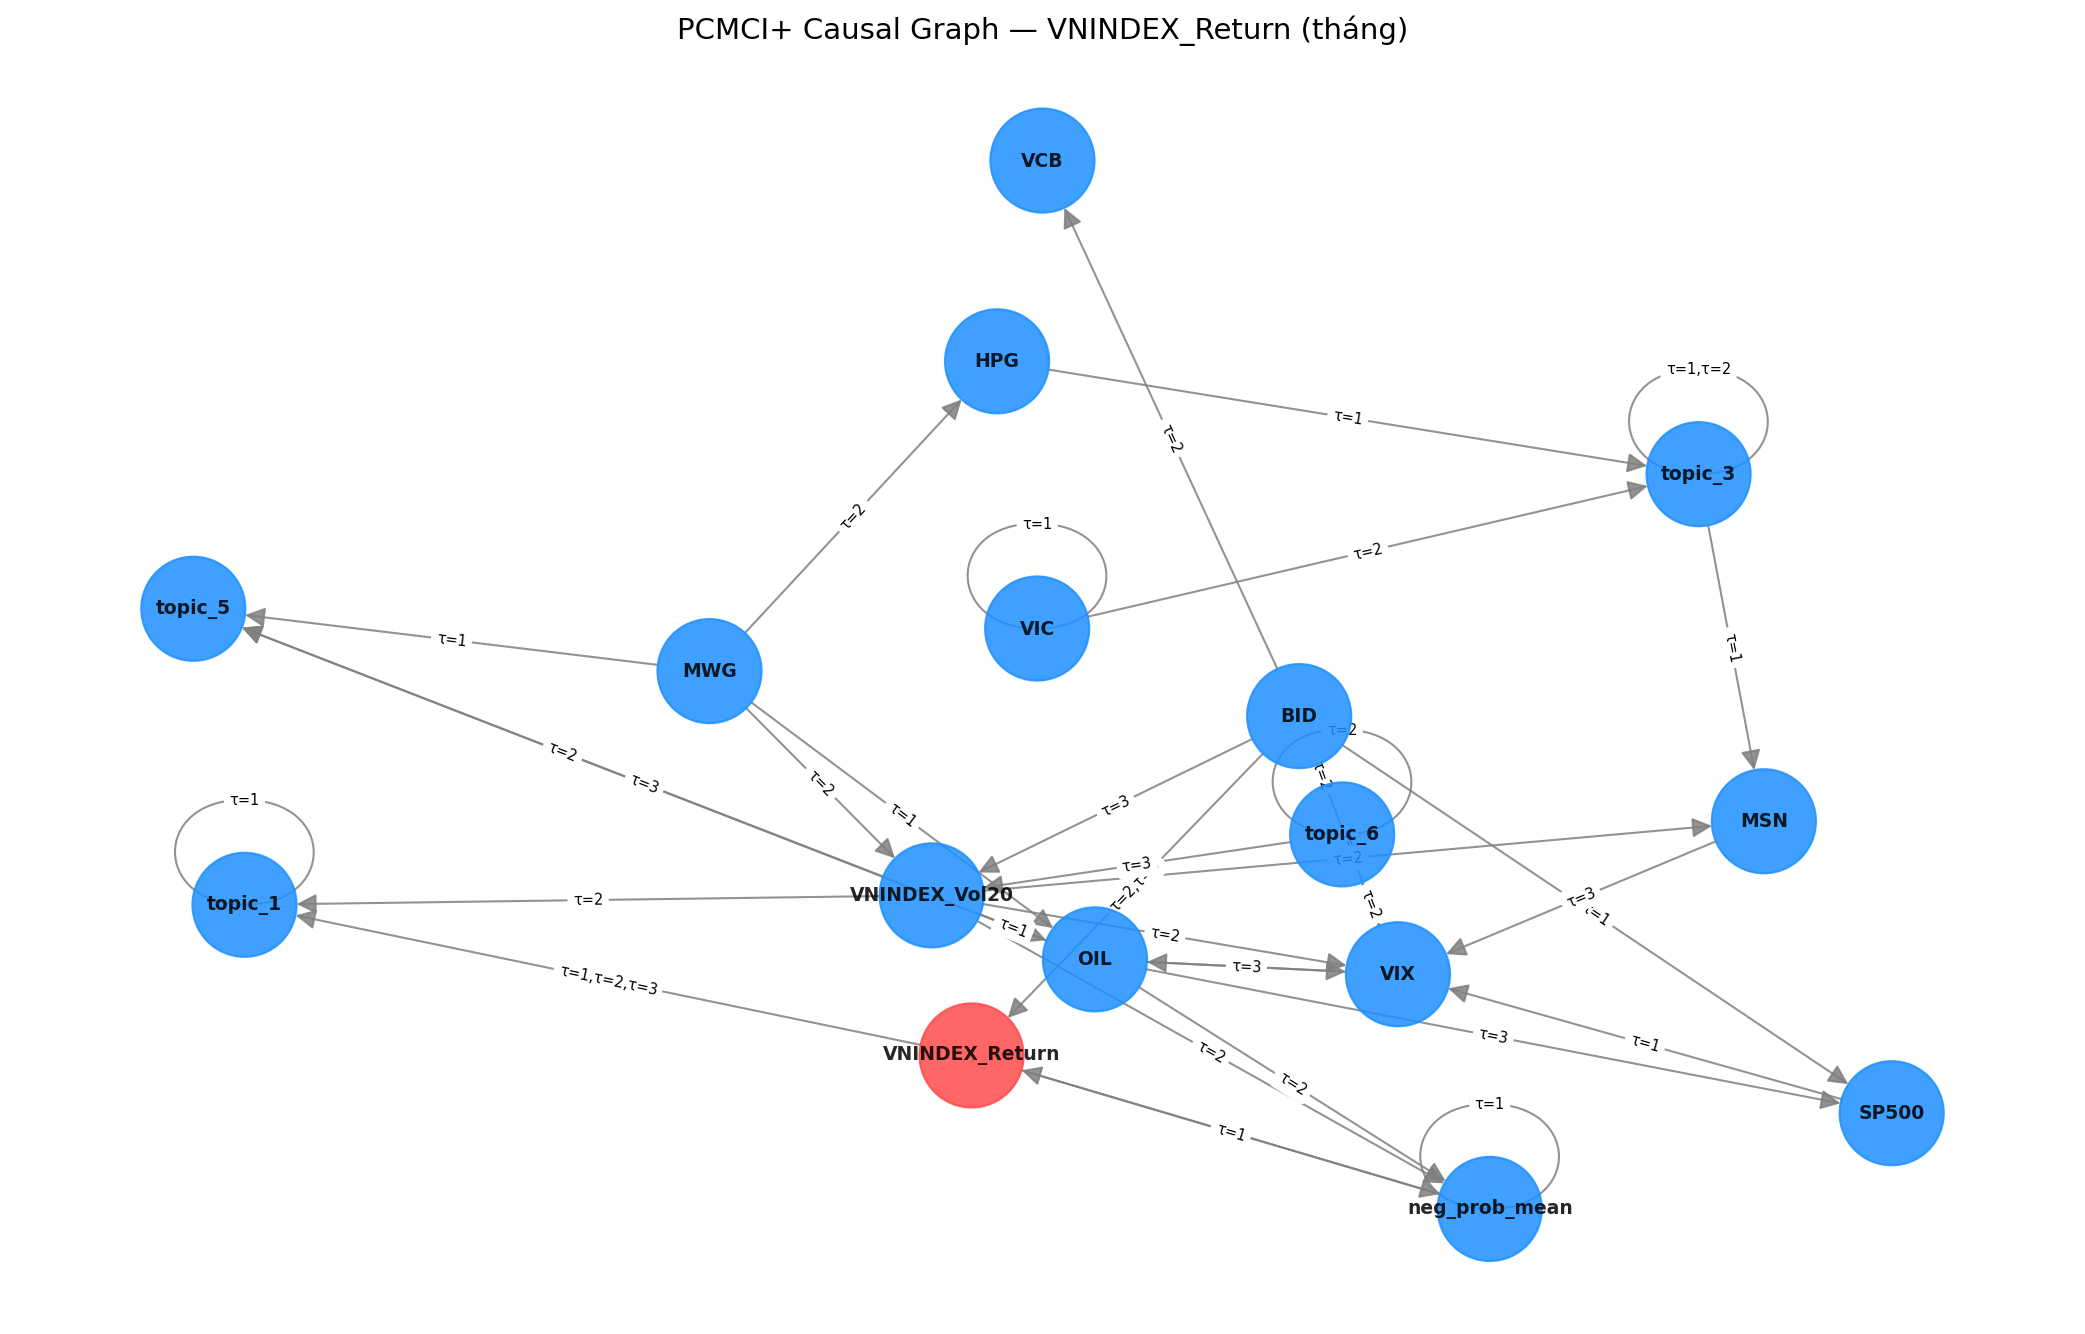
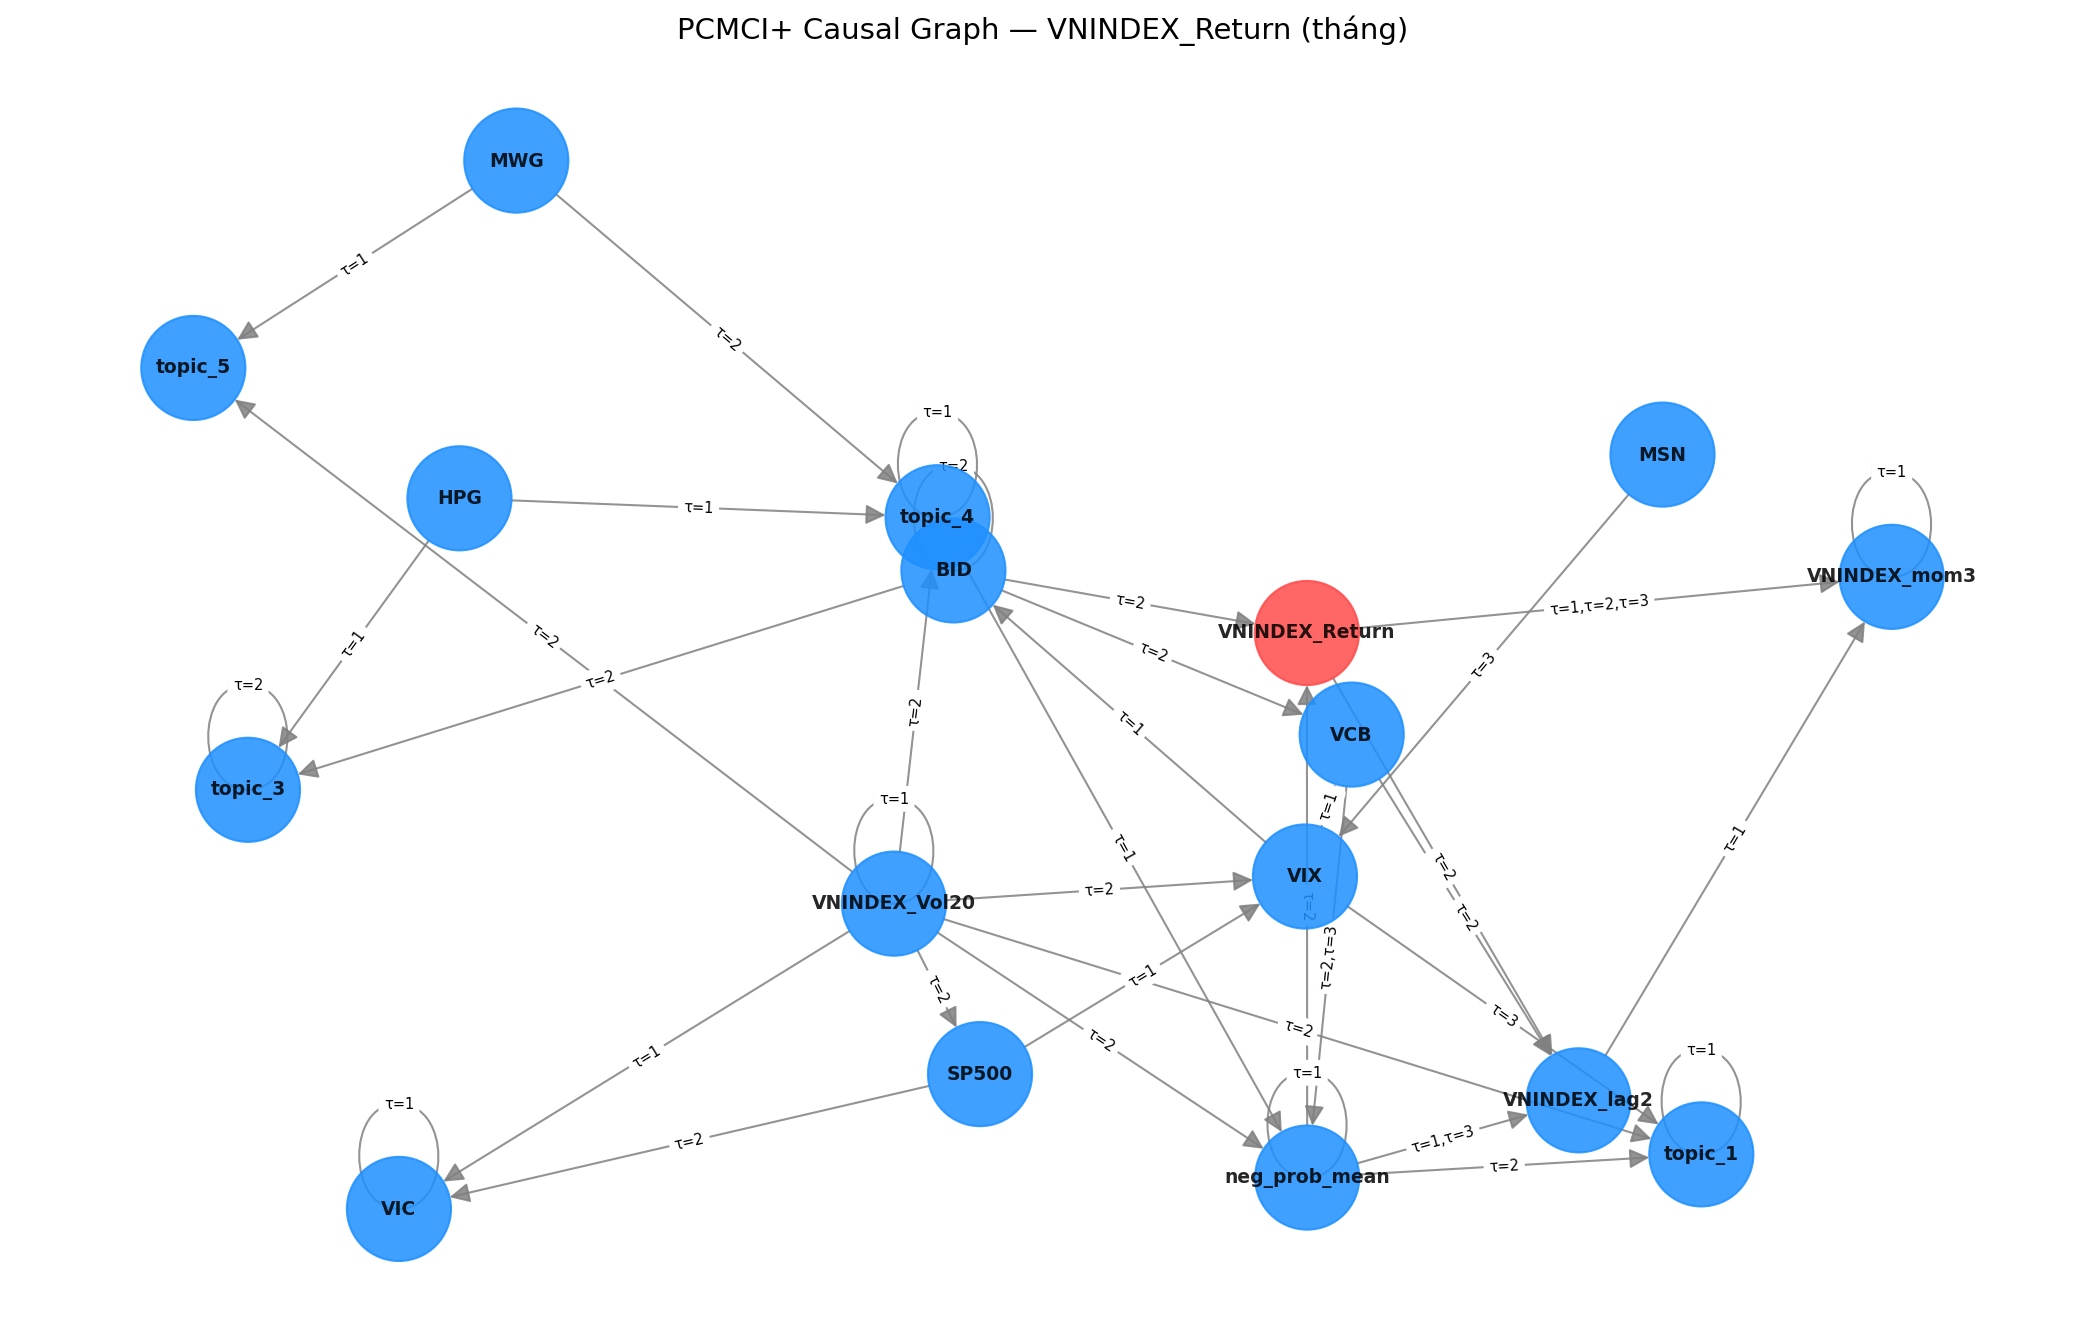
feat: add Causal XGBoost model and next-month prediction interface to CausalForecaster

diff --git a/causal_forecaster.py b/causal_forecaster.py
@@ -647,6 +647,123 @@ class CausalForecaster:
         return float(pred)
 
     # ------------------------------------------------------------------
+    # Predict Next Month — kết hợp Causal Ridge + Causal Logistic
+    # ------------------------------------------------------------------
+
+    def predict_next_month(self, df: pd.DataFrame,
+                           window_size: int = 60,
+                           current_price: float = None) -> dict:
+        """
+        Dự báo tháng tiếp theo bằng cách kết hợp:
+          - Causal Ridge   → ước tính độ lớn log return
+          - Causal Logistic → xác nhận chiều tăng/giảm (60% DA)
+
+        Parameters
+        ----------
+        df           : DataFrame đã clean (stationary, no NaN)
+        window_size  : số tháng gần nhất để train
+        current_price: giá VN-Index hiện tại (để tính giá dự báo)
+
+        Returns dict gồm:
+          direction      : 'TĂNG' / 'GIẢM'
+          confidence     : xác suất chiều dự báo (0-1)
+          pred_return    : log return dự báo từ Ridge
+          pred_price     : giá dự báo (nếu có current_price)
+          signal         : 'MUA' / 'BÁN' / 'CHỜ'
+          features_used  : danh sách features causal
+        """
+        from sklearn.linear_model import LogisticRegressionCV, Ridge
+        from sklearn.model_selection import TimeSeriesSplit
+
+        feature_cols = [c for c in self.selected_features if c in df.columns]
+        if not feature_cols:
+            feature_cols = [c for c in df.columns if c != self.target_col]
+
+        # Shift-1: dùng giá trị tháng hiện tại để dự báo tháng tới
+        df_lag = df[feature_cols].shift(1).copy()
+        df_lag[self.target_col] = df[self.target_col]
+        df_lag = df_lag.dropna()
+
+        n = len(df_lag)
+        ws = min(window_size, n - 1)
+
+        X_train = df_lag[feature_cols].values[-ws:]
+        y_train = df_lag[self.target_col].values[-ws:]
+        y_dir   = (y_train > 0).astype(int)
+
+        # X_next = giá trị features tháng MỚI NHẤT (chưa shift)
+        X_next = df[feature_cols].values[-1:].copy()
+
+        scaler = StandardScaler()
+        X_train_s = scaler.fit_transform(X_train)
+        X_next_s  = scaler.transform(X_next)
+
+        # --- Causal Ridge: dự báo return ---
+        ridge = Ridge(alpha=1.0)
+        ridge.fit(X_train_s, y_train)
+        pred_return = float(ridge.predict(X_next_s)[0])
+
+        # --- Causal Logistic: dự báo chiều + confidence ---
+        direction, confidence = 'TĂNG', 0.5
+        if len(np.unique(y_dir)) >= 2:
+            tscv = TimeSeriesSplit(n_splits=3)
+            clf = LogisticRegressionCV(
+                Cs=np.logspace(-3, 2, 10),
+                cv=tscv, scoring='accuracy',
+                penalty='l2', solver='lbfgs',
+                max_iter=500, random_state=42,
+            )
+            clf.fit(X_train_s, y_dir)
+            proba     = clf.predict_proba(X_next_s)[0]   # [P(giảm), P(tăng)]
+            pred_dir  = clf.predict(X_next_s)[0]
+            direction = 'TĂNG' if pred_dir == 1 else 'GIẢM'
+            confidence = float(proba[pred_dir])
+
+        # Nếu Ridge và Logistic mâu thuẫn → hạ confidence, signal CHỜ
+        ridge_dir   = 'TĂNG' if pred_return > 0 else 'GIẢM'
+        consistent  = (ridge_dir == direction)
+
+        if not consistent:
+            signal = 'CHỜ'
+        elif confidence >= 0.60:
+            signal = 'MUA' if direction == 'TĂNG' else 'BÁN'
+        else:
+            signal = 'CHỜ'
+
+        # Giá dự báo
+        pred_price = None
+        if current_price and current_price > 0:
+            pred_price = round(current_price * np.exp(pred_return), 2)
+
+        result = {
+            'direction':    direction,
+            'confidence':   round(confidence, 4),
+            'pred_return':  round(pred_return * 100, 2),   # % thay vì log
+            'pred_price':   pred_price,
+            'signal':       signal,
+            'ridge_dir':    ridge_dir,
+            'consistent':   consistent,
+            'features_used': feature_cols,
+        }
+
+        # In đẹp
+        print(f"\n{'='*55}")
+        print(f"  DỰ BÁO THÁNG TIẾP THEO — VN-Index")
+        print(f"{'='*55}")
+        print(f"  Chiều dự báo  : {direction}  (confidence: {confidence:.1%})")
+        print(f"  Return dự báo : {pred_return*100:+.2f}%")
+        if pred_price:
+            print(f"  Giá hiện tại  : {current_price:,.0f}")
+            print(f"  Giá dự báo    : {pred_price:,.0f}")
+        print(f"  Đồng thuận    : Ridge={'TĂNG' if pred_return>0 else 'GIẢM'} | "
+              f"Logistic={direction} → {'✓ Nhất quán' if consistent else '✗ Mâu thuẫn'}")
+        print(f"  Khuyến nghị   : {'🟢 '+signal if signal=='MUA' else '🔴 '+signal if signal=='BÁN' else '🟡 '+signal}")
+        print(f"  Features dùng : {feature_cols}")
+        print(f"{'='*55}")
+
+        return result
+
+    # ------------------------------------------------------------------
     # Evaluation & Comparison
     # ------------------------------------------------------------------
 
@@ -712,6 +829,45 @@ class CausalForecaster:
 
         return np.array(actuals), np.array(predictions)
 
+    def _rolling_forecast_xgb(self, df, feature_cols, window_size=60):
+        """Rolling window XGBoost — bắt quan hệ phi tuyến (Nhóm 1)."""
+        try:
+            from xgboost import XGBRegressor
+        except ImportError:
+            print("  [WARNING] xgboost chưa cài. Bỏ qua XGBoost.")
+            return None, None
+
+        df_lag = df[feature_cols].shift(1).copy()
+        df_lag[self.target_col] = df[self.target_col]
+        df_lag = df_lag.dropna()
+
+        y = df_lag[self.target_col].values
+        X = df_lag[feature_cols].values
+
+        predictions, actuals = [], []
+        for i in range(window_size, len(df_lag)):
+            X_train, y_train = X[i - window_size:i], y[i - window_size:i]
+            X_test = X[i:i + 1]
+
+            scaler = StandardScaler()
+            X_train_s = scaler.fit_transform(X_train)
+            X_test_s  = scaler.transform(X_test)
+
+            model = XGBRegressor(
+                n_estimators=100,
+                max_depth=3,          # shallow — tránh overfit trên data nhỏ
+                learning_rate=0.05,
+                subsample=0.8,
+                colsample_bytree=0.8,
+                random_state=42,
+                verbosity=0,
+            )
+            model.fit(X_train_s, y_train)
+            predictions.append(model.predict(X_test_s)[0])
+            actuals.append(y[i])
+
+        return np.array(actuals), np.array(predictions)
+
     def compare_models(self, df, window_size=60, freq: str = "monthly",
                        use_lstm: bool = False, lstm_epochs: int = 20):
         """
@@ -720,21 +876,28 @@ class CausalForecaster:
           2. LASSO Ridge
           3. Causal Ridge (PCMCI+)
           4. Causal Logistic (PCMCI+ features) — tối ưu trực tiếp DA
+          5. Causal XGBoost — phi tuyến, bắt momentum
           5. Causal LSTM (PCMCI+ features, nếu use_lstm=True)
         """
         all_cols = [c for c in df.columns if c != self.target_col]
 
-        print("\n[1/4] All-features Ridge")
+        print("\n[1/5] All-features Ridge")
         act, pred_all = self._rolling_forecast(df, all_cols, window_size)
         r_all = self.evaluate(act, pred_all, 'All-features Ridge')
 
-        print("\n[2/4] LASSO Ridge")
+        print("\n[2/5] All-features XGBoost (phi tuyến, tất cả features)")
+        r_all_xgb = None
+        act_axgb, pred_axgb = self._rolling_forecast_xgb(df, all_cols, window_size)
+        if act_axgb is not None:
+            r_all_xgb = self.evaluate(act_axgb, pred_axgb, 'All-features XGBoost')
+
+        print("\n[3/6] LASSO Ridge")
         df_lasso  = self.reduce_dimensions(df, method='lasso')
         lasso_cols = [c for c in df_lasso.columns if c != self.target_col]
         _, pred_lasso = self._rolling_forecast(df, lasso_cols, window_size)
         r_lasso = self.evaluate(act, pred_lasso, 'LASSO Ridge')
 
-        print("\n[3/4] Causal Ridge (PCMCI+)")
+        print("\n[4/6] Causal Ridge (PCMCI+)")
         r_causal = None
         if self.selected_features:
             _, pred_causal = self._rolling_forecast(df, self.selected_features, window_size)
@@ -742,12 +905,20 @@ class CausalForecaster:
         else:
             print("  Không tìm được causal features.")
 
-        print("\n[4/4] Causal Logistic (PCMCI+ — tối ưu DA trực tiếp)")
+        print("\n[5/6] Causal Logistic (PCMCI+ — tối ưu DA trực tiếp)")
         r_clf = None
         clf_cols = self.selected_features if self.selected_features else lasso_cols
         if clf_cols:
             _, pred_clf = self._rolling_forecast_clf(df, clf_cols, window_size)
             r_clf = self.evaluate(act, pred_clf, 'Causal Logistic')
+
+        print("\n[6/6] Causal XGBoost (phi tuyến + momentum)")
+        r_xgb = None
+        xgb_cols = self.selected_features if self.selected_features else lasso_cols
+        if xgb_cols:
+            act_xgb, pred_xgb = self._rolling_forecast_xgb(df, xgb_cols, window_size)
+            if act_xgb is not None:
+                r_xgb = self.evaluate(act_xgb, pred_xgb, 'Causal XGBoost')
 
         r_lstm = None
         if use_lstm and TORCH_AVAILABLE and self.selected_features:
@@ -762,7 +933,7 @@ class CausalForecaster:
             if act_lstm is not None:
                 r_lstm = self.evaluate(act_lstm, pred_lstm, 'Causal LSTM (PCMCI+)')
 
-        results = {'all': r_all, 'lasso': r_lasso, 'causal': r_causal, 'clf': r_clf, 'lstm': r_lstm}
+        results = {'all': r_all, 'all_xgb': r_all_xgb, 'lasso': r_lasso, 'causal': r_causal, 'clf': r_clf, 'xgb': r_xgb, 'lstm': r_lstm}
         self._plot_comparison(results, act, freq=freq)
         return results
 

diff --git a/main.py b/main.py
@@ -8,8 +8,41 @@ Cách chạy:
 """
 
 import sys
+import numpy as np
+import pandas as pd
 from causal_forecaster import CausalForecaster
 from data_loader import load_dataset
+
+
+def add_technical_features(df: pd.DataFrame) -> pd.DataFrame:
+    """
+    Nhóm 1 — thêm autoregression + technical indicators từ data giá có sẵn.
+    Tất cả tính với lag để tránh look-ahead bias.
+    """
+    df = df.copy()
+    ret = df["VNINDEX_Return"]
+
+    # 1. Autoregression lag 1-3 (momentum ngắn hạn)
+    df["VNINDEX_lag1"] = ret.shift(1)
+    df["VNINDEX_lag2"] = ret.shift(2)
+    df["VNINDEX_lag3"] = ret.shift(3)
+
+    # 2. Momentum 3 tháng (tổng return 3 tháng trước)
+    df["VNINDEX_mom3"] = ret.shift(1).rolling(3).sum()
+
+    # 3. Volatility 3 tháng (độ biến động gần đây)
+    df["VNINDEX_vol3"] = ret.shift(1).rolling(3).std()
+
+    # 4. RSI-style momentum: tỷ lệ tháng tăng / tổng tháng (6 tháng)
+    up   = ret.shift(1).rolling(6).apply(lambda x: (x > 0).sum())
+    df["VNINDEX_rsi6"] = up / 6.0
+
+    # 5. Trend signal: MA3 so với MA6 (cross signal)
+    ma3 = ret.shift(1).rolling(3).mean()
+    ma6 = ret.shift(1).rolling(6).mean()
+    df["VNINDEX_trend"] = (ma3 - ma6)
+
+    return df
 
 
 # ------------------------------------------------------------------
@@ -56,6 +89,13 @@ def main(freq: str = "monthly", use_cache: bool = True):
     if non_stat:
         print(f"  → Diff các cột non-stationary: {non_stat}")
         df_clean[non_stat] = df_clean[non_stat].diff()
+
+    # 2b+. Thêm autoregression + technical indicators (Nhóm 1)
+    df_clean = add_technical_features(df_clean)
+    new_cols = ["VNINDEX_lag1","VNINDEX_lag2","VNINDEX_lag3",
+                "VNINDEX_mom3","VNINDEX_vol3","VNINDEX_rsi6","VNINDEX_trend"]
+    print(f"  → Thêm {len(new_cols)} technical features: {new_cols}")
+
     before = len(df_clean)
     df_clean = df_clean.dropna()
     print(f"  → Sau khi dropna: {before} → {len(df_clean)} hàng")
@@ -114,6 +154,23 @@ def main(freq: str = "monthly", use_cache: bool = True):
                 f"{res['mae']:>10.6f} "
                 f"{res['da']:>10.2%}"
             )
+
+    # 7. Dự báo tháng tiếp theo
+    print("\n--- 7. Dự báo tháng tiếp theo ---")
+    # Nhập giá VN-Index hiện tại (hoặc None nếu không biết)
+    try:
+        import vnstock as vns
+        vnindex = vns.Vnstock().stock(symbol='VNINDEX', source='VCI')
+        price_df = vnindex.quote.history(start='2026-01-01', end='2026-04-30', interval='1M')
+        current_price = float(price_df['close'].iloc[-1]) if not price_df.empty else None
+    except Exception:
+        current_price = None
+
+    forecaster.predict_next_month(
+        df_pre,
+        window_size=window,
+        current_price=current_price,
+    )
 
 
 if __name__ == "__main__":